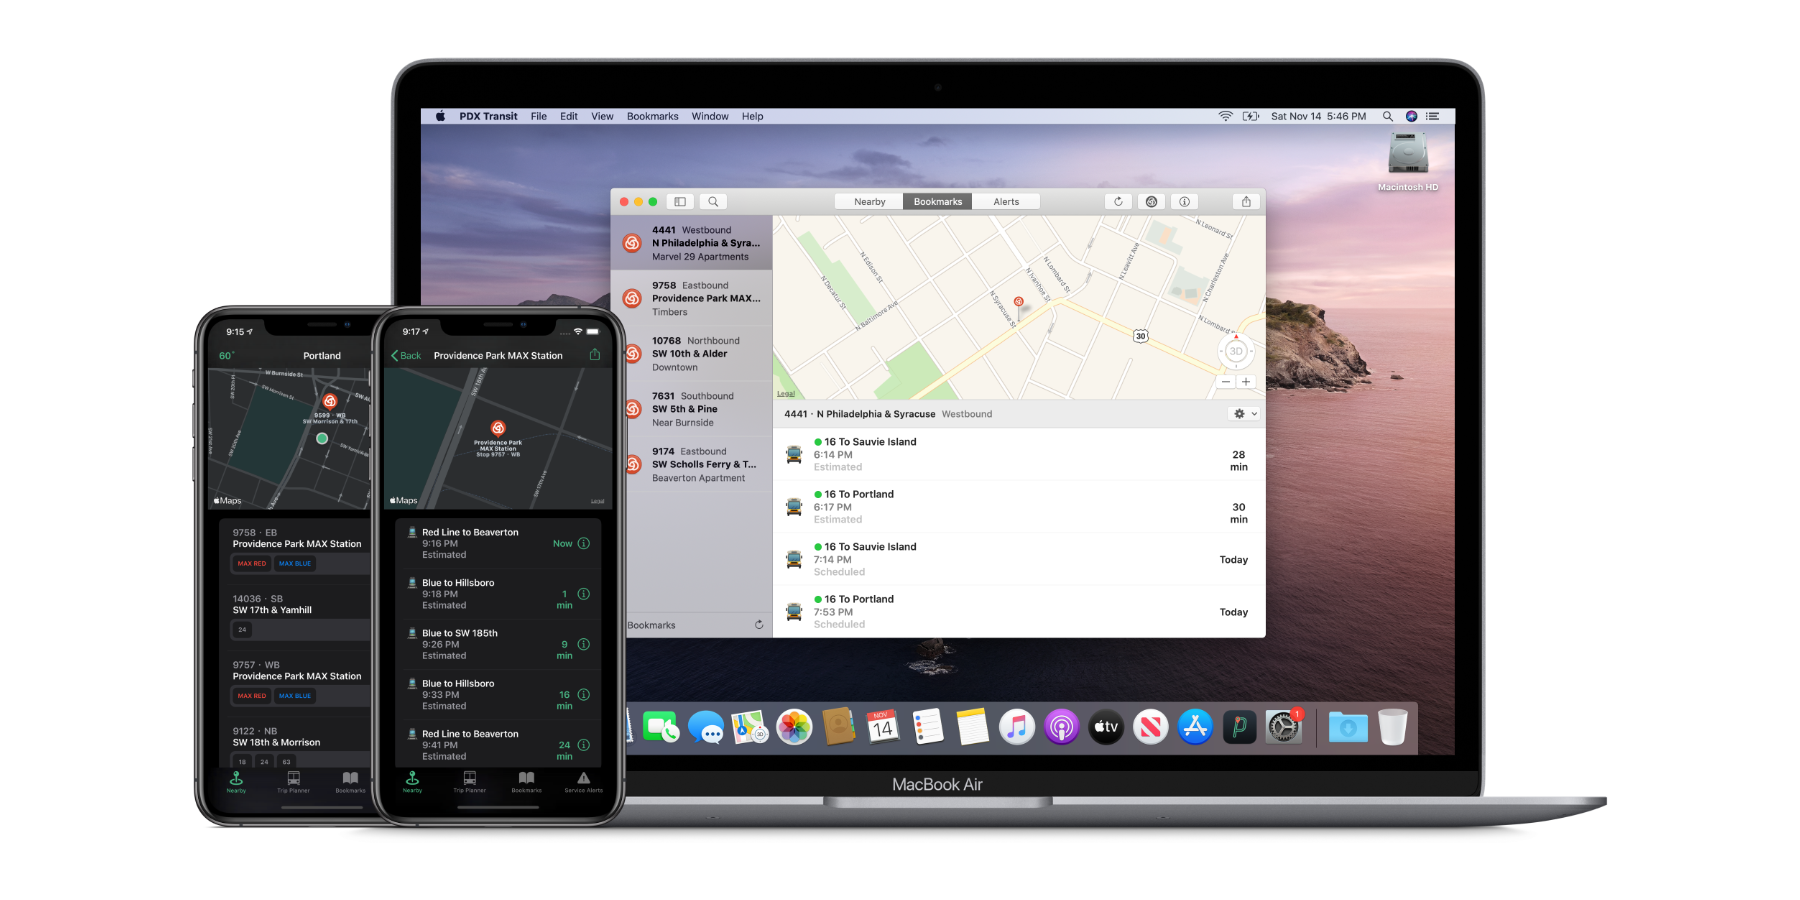
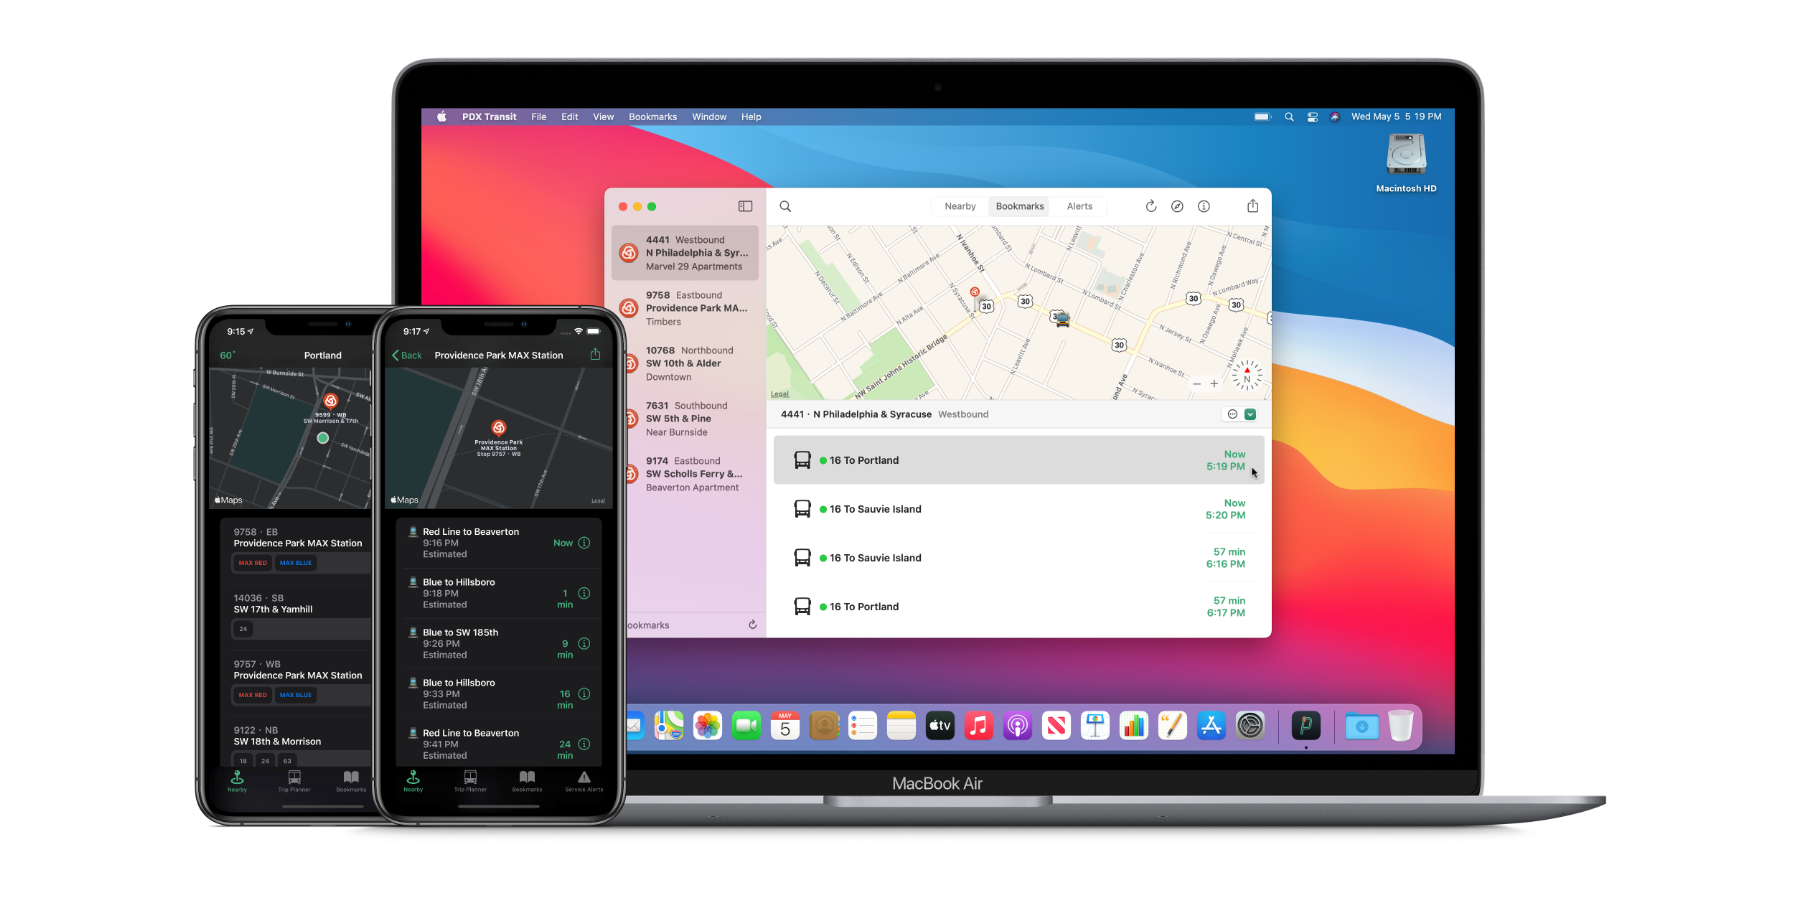
Updating old Catalina screenshots, updating footer date.

Changed region(s): [[0.0933, 0.0933, 0.9022, 0.9333], [0.2489, 0.4667, 0.28, 0.4978]]

diff --git a/index.html b/index.html
@@ -137,7 +137,7 @@
 			<!-- Footer Start -->
 			<div class="row">
 				<div class="col-md">
-					<small><b>© 2019-2020 Mario A Guzman</b></small>
+					<small><b>© 2019-2021 Mario A Guzman</b></small>
 				</div>
 			</div>
 			

diff --git a/music/design/index.html b/music/design/index.html
@@ -313,7 +313,7 @@
 			<!-- Footer Start -->
 			<div class="row">
 				<div class="col-md">
-					<small><b>© 2019-2020 Mario A Guzman</b></small>
+					<small><b>© 2019-2021 Mario A Guzman</b></small>
 				</div>
 			</div>
 			

diff --git a/music/index.html b/music/index.html
@@ -257,7 +257,7 @@
 			<!-- Footer Start -->
 			<div class="row">
 				<div class="col-md">
-					<small><b>© 2019-2020 Mario A Guzman</b></small>
+					<small><b>© 2019-2021 Mario A Guzman</b></small>
 				</div>
 			</div>
 			

diff --git a/pdxtransit/index.html b/pdxtransit/index.html
@@ -149,7 +149,7 @@
 			<!-- Footer Start -->
 			<div class="row">
 				<div class="col-md">
-					<small><b>© 2019-2020 Mario A Guzman</b></small>
+					<small><b>© 2019-2021 Mario A Guzman</b></small>
 				</div>
 			</div>
 			

diff --git a/pdxtransit/ios/index.html b/pdxtransit/ios/index.html
@@ -269,7 +269,7 @@
 			<!-- Footer Start -->
 			<div class="row">
 				<div class="col-md">
-					<small><b>© 2019-2020 Mario A Guzman</b></small>
+					<small><b>© 2019-2021 Mario A Guzman</b></small>
 				</div>
 			</div>
 			

diff --git a/pdxtransit/ios/privacypolicy.html b/pdxtransit/ios/privacypolicy.html
@@ -114,7 +114,7 @@
 			<!-- Footer Start -->
 			<div class="row">
 				<div class="col-md">
-					<small><b>© 2019-2020 Mario A Guzman</b></small>
+					<small><b>© 2019-2021 Mario A Guzman</b></small>
 				</div>
 			</div>
 			

diff --git a/pdxtransit/ios/swiftui.html b/pdxtransit/ios/swiftui.html
@@ -174,7 +174,7 @@
 			<!-- Footer Start -->
 			<div class="row">
 				<div class="col-md">
-					<small><b>© 2019-2020 Mario A Guzman</b></small>
+					<small><b>© 2019-2021 Mario A Guzman</b></small>
 				</div>
 			</div>
 			

diff --git a/pdxtransit/macos/index.html b/pdxtransit/macos/index.html
@@ -281,7 +281,7 @@
 			<!-- Footer Start -->
 			<div class="row">
 				<div class="col-md">
-					<small><b>© 2019-2020 Mario A Guzman</b></small>
+					<small><b>© 2019-2021 Mario A Guzman</b></small>
 				</div>
 			</div>
 			

diff --git a/pdxtransit/macos/privacypolicy.html b/pdxtransit/macos/privacypolicy.html
@@ -102,7 +102,7 @@
 			<!-- Footer Start -->
 			<div class="row">
 				<div class="col-md">
-					<small><b>© 2019-2020 Mario A Guzman</b></small>
+					<small><b>© 2019-2021 Mario A Guzman</b></small>
 				</div>
 			</div>
 			
